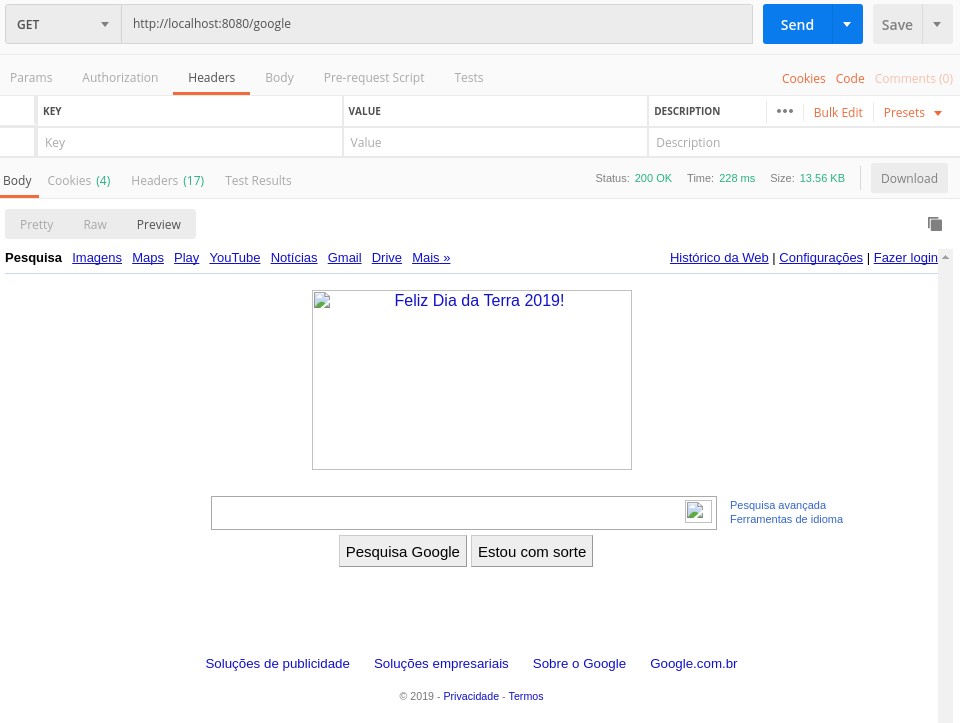
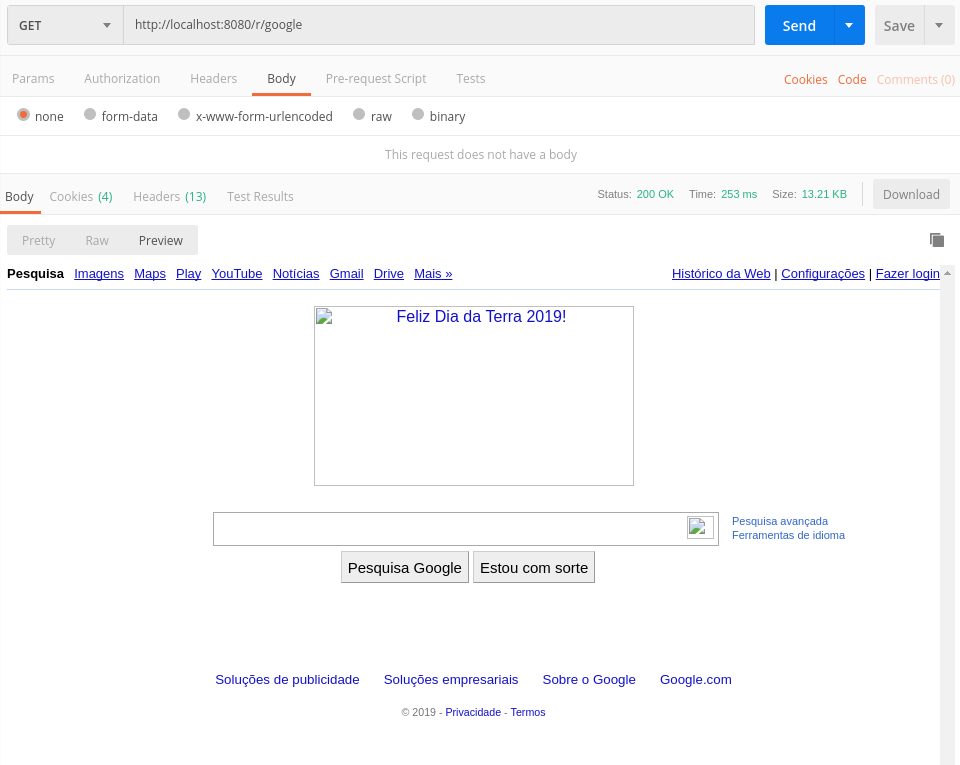
Adicionado: Validador de token utilizando Spring Security;

diff --git a/README.md b/README.md
@@ -12,22 +12,46 @@ Aplicação criada utilizando:
   * MySQL
   * Java 9
 
-### Testando a API
+### Funcionamento
 
 A aplicação utiliza a porta :8080 para seu funcionamento.
-Assim que a aplicação é iniciada, é fornecido um endpoint para cadastro de urls no caminho '/shortener'
 
-Corpo da mensagem a ser enviada ao endpoint '/shortener'
+### Endpoints
 
+    * /api/v2/shortener // API para criação de URL's encurtadas
+    * /swagger-ui.html  // Documentação gerada automáticamente para realização de testes com a API
+    * /r/{alias}        // Redirecionamento para URL encurtada, onde {alias} é a identificação cadastrada pelo usuário
+
+### Testando a API
+
+Para testes foi implementado o Swagger v2.0 para geração automática da documentação e implementação dos endpoints no caminho '/swagger-ui.html'
+
+Assim que a aplicação é iniciada, é fornecido um endpoint para cadastro de urls no caminho '/api/v2/shortener'
+
+Corpo da mensagem a ser enviada ao endpoint '/api/v2/shortener' utilizando Bearer Token:
+
+**OBS:** Por não ter uma persistência para os tokens, qualquer valor utilizado será autorizado
 
 ```
 {
-  "alias": string,  // Campo de identificação única para uma URL personalizada;
-  "url" : string    // URL (Válida) na qual a aplicação irá redirecionar
+    "alias": string,  // Campo de identificação única para uma URL personalizada;
+    "url" : string    // URL (Válida) na qual a aplicação irá redirecionar
 }
 ```
 
 **OBS:** O Campo da url possui um validador utilizando o RegEx `^(http://|https://)?(www.)?([a-zA-Z0-9]+).[a-zA-Z0-9]*.[a-z]{2}.?([a-zA-Z]+)?$`
+
+Corpo da mensagem de resposta do servidor:
+
+```
+{
+    "timestamp": long,
+    "status": int,
+    "data": string, // URL encurtada
+    "error": string,
+    "errors": array
+}
+```
 
 ### Screenshot (via Postman)
 
